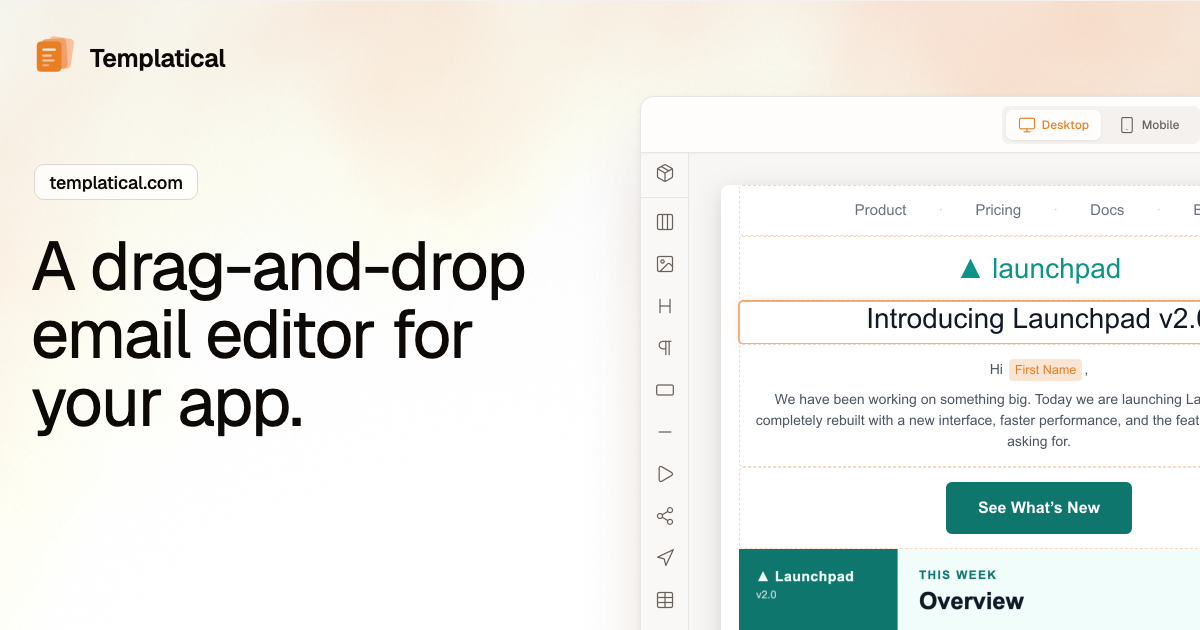
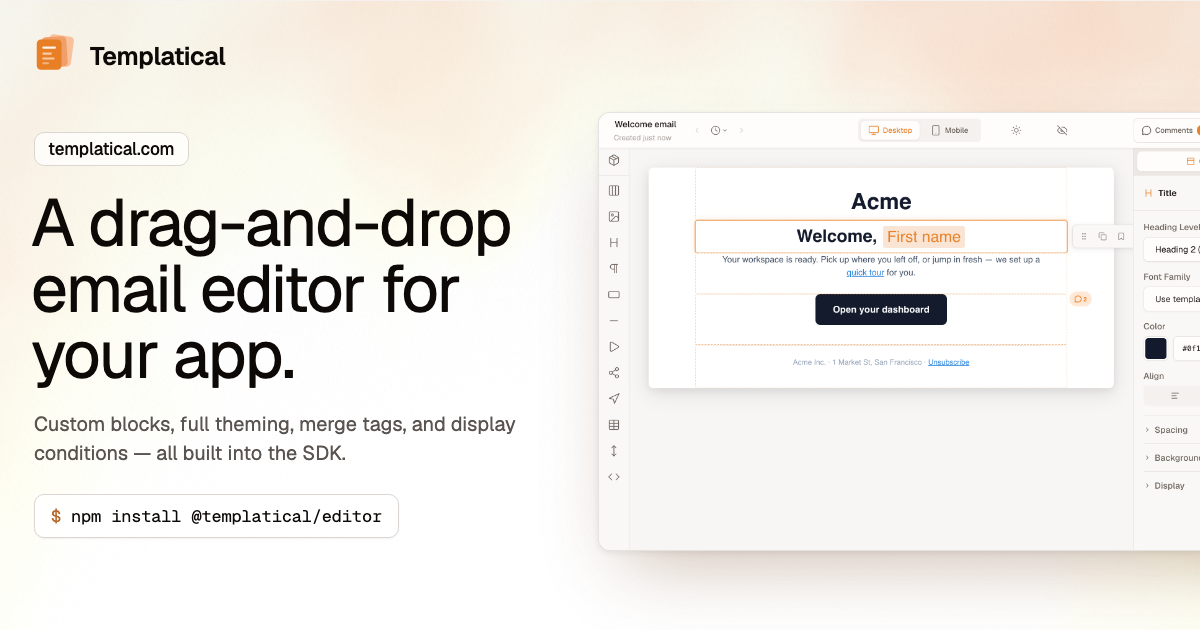
Show the homepage editor in og.png; refresh preview.png
og.png now pictures the homepage's editor, with the template name,
version history and comments, and adds the homepage's subheadline and
the install command under the headline.

preview.png still showed the old editor with a Tablet toggle. It is now
the homepage editor at the same 2364x1410 size, with a heading selected
so the properties panel shows. The SDK README and the docs homepage
embed it at that size unchanged. HeroEditor.vue's fallback <img> carried
2124x1428, which never matched the file; it now declares 2364x1410, so
the image keeps its space while it loads.

diff --git a/src/components/HeroEditor.vue b/src/components/HeroEditor.vue
@@ -501,8 +501,8 @@ onBeforeUnmount(() => {
                 v-else
                 src="/preview.png"
                 :alt="t('heroEditor.previewAlt') || 'Templatical editor preview'"
-                width="2124"
-                height="1428"
+                width="2364"
+                height="1410"
                 decoding="async"
                 fetchpriority="high"
                 class="block h-auto w-full"
